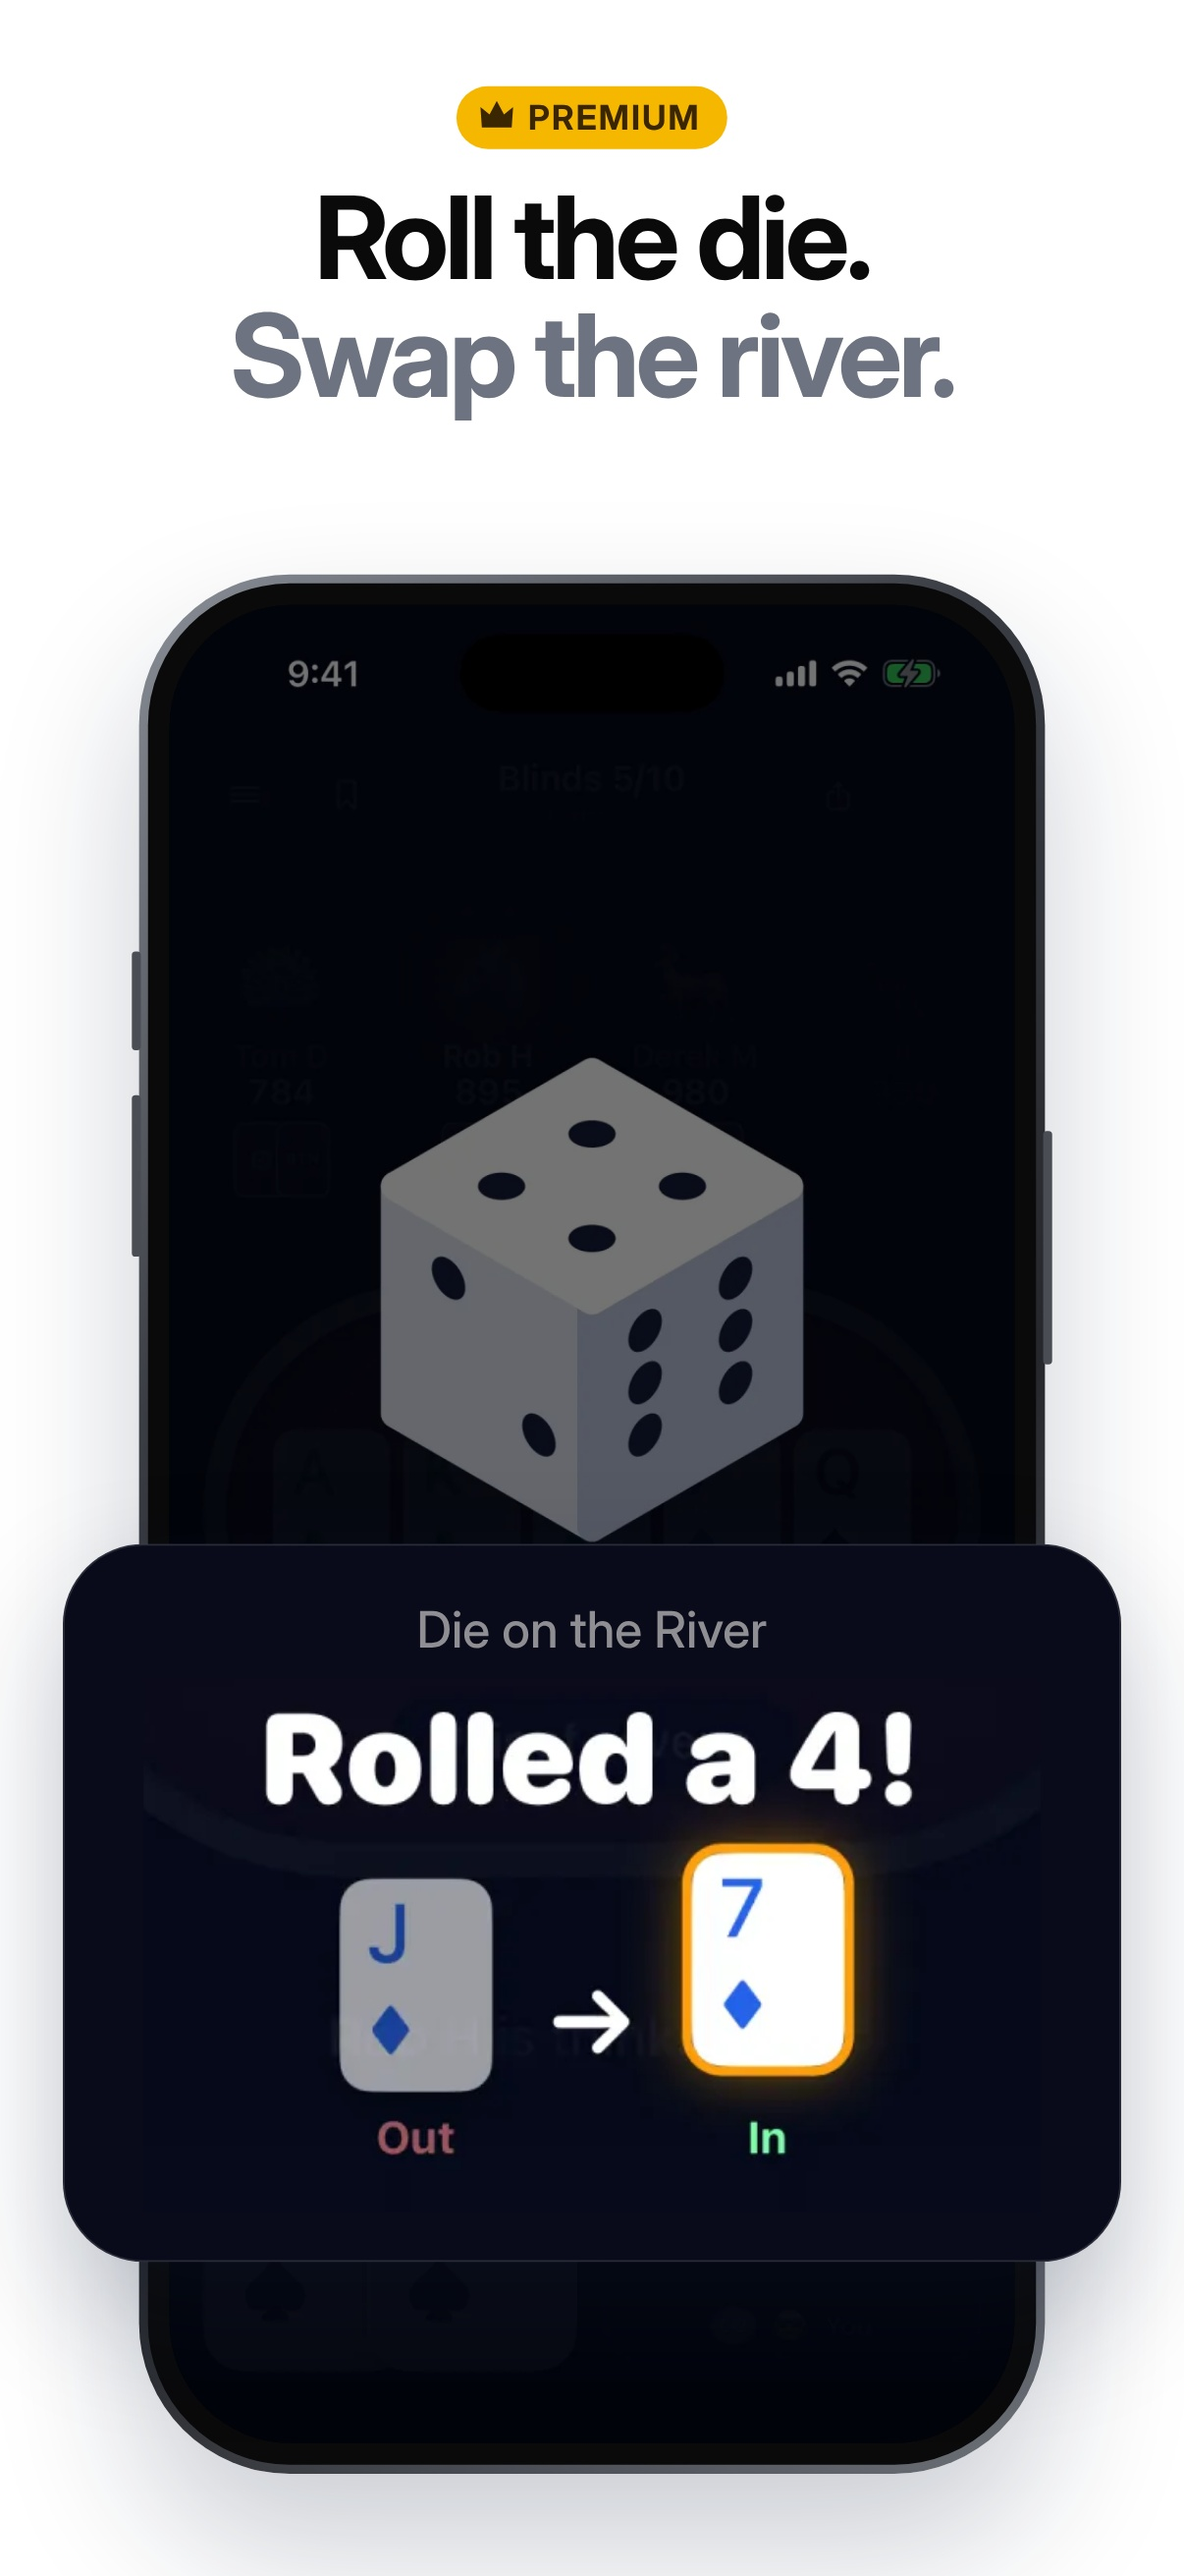
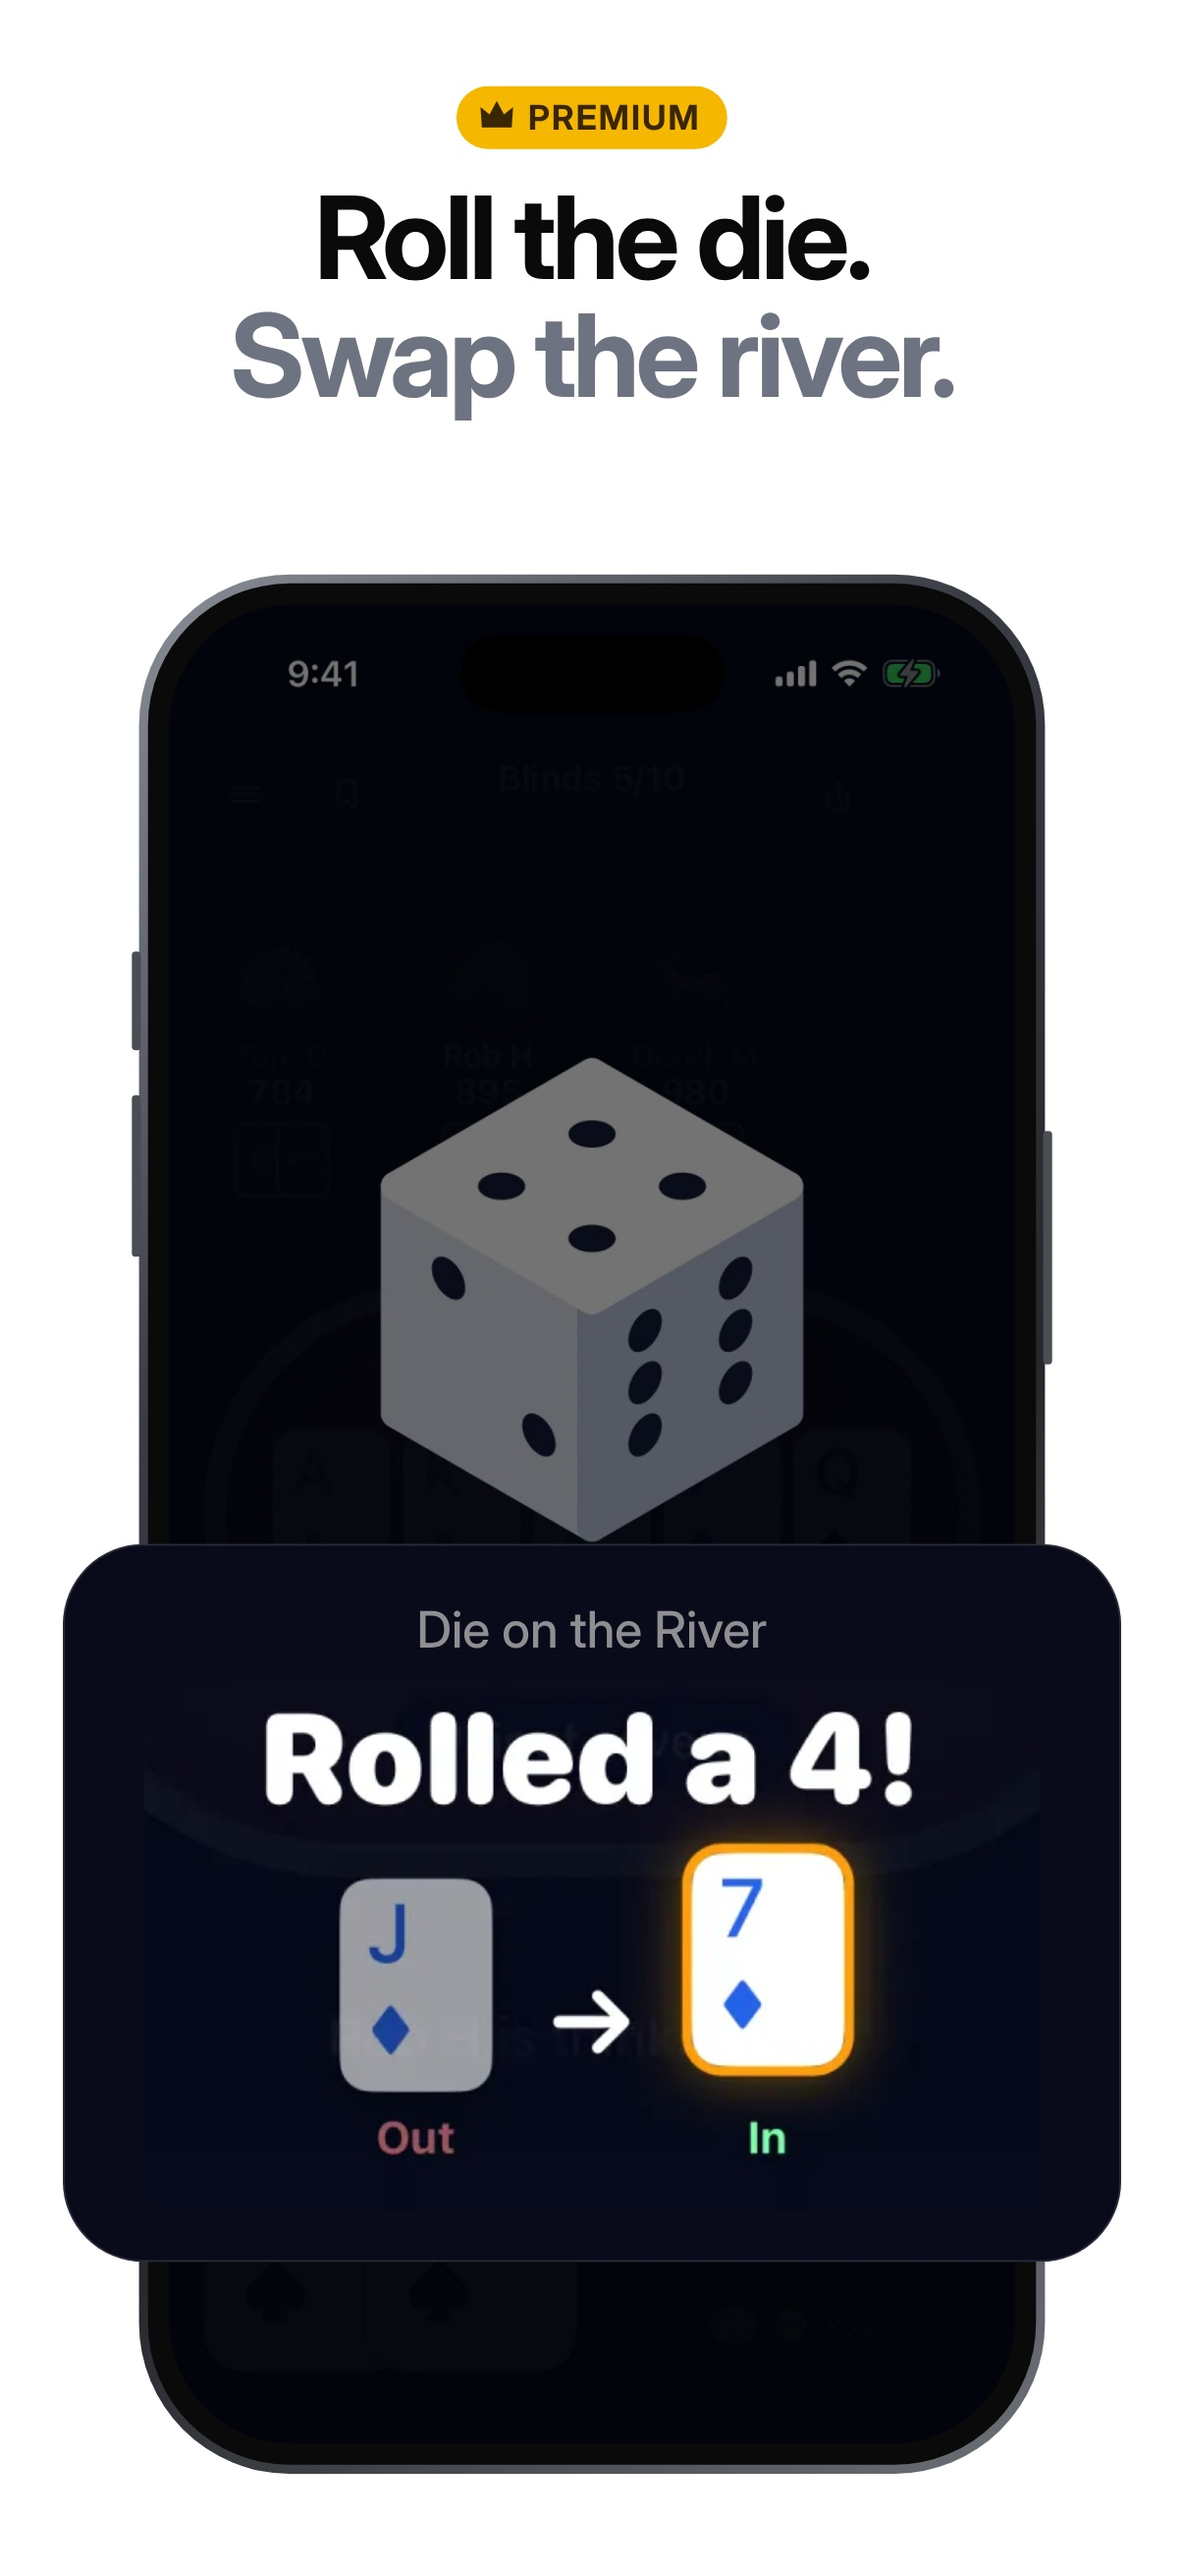
App Store screenshots: no shadows
Removed every drop shadow from the slide template (the phone, the pulled-out panels, the
chat bubbles, the game tiles and the code card) and re-rendered all 18 slides.

Claude-Session: https://claude.ai/code/session_01Tm6LJGY65MBLfrcgNtCq1V

diff --git a/store/scripts/slides.html b/store/scripts/slides.html
@@ -9,22 +9,22 @@ h1{position:absolute;left:90px;right:90px;text-align:center;font-weight:700;lett
 h1 span{color:var(--mute)}
 /* The screen (the phone less 34px a side) is exactly an iPhone screenshot's shape, 402 x 874, so a shot fills it to the bottom edge. */
 .phone{position:absolute;width:1010px;height:2116px;border-radius:168px;padding:22px;
- background:linear-gradient(135deg,#8b8f97,#3a3d44 30%,#25272c 60%,#6d7178);box-shadow:0 80px 160px var(--shadow)}
+ background:linear-gradient(135deg,#8b8f97,#3a3d44 30%,#25272c 60%,#6d7178)}
 .phone:before{content:'';position:absolute;inset:10px;border-radius:158px;background:#0a0a0b}
 .screen{position:absolute;inset:34px;border-radius:136px;overflow:hidden;background:#000}
 .screen img{width:100%;height:100%;object-fit:cover;object-position:top;display:block}
 .island{position:absolute;top:34px;left:50%;transform:translateX(-50%);width:290px;height:86px;border-radius:43px;background:#000;z-index:2}
 .dim:after{content:'';position:absolute;inset:0;background:rgba(0,0,0,.55)}
 .btn{position:absolute;width:10px;border-radius:4px;background:#4a4d54}
-.panel{position:absolute;background:#000;border:2px solid rgba(255,255,255,.14);border-radius:90px;box-shadow:0 60px 140px var(--shadow);overflow:hidden;text-align:center;color:#fff}
+.panel{position:absolute;background:#000;border:2px solid rgba(255,255,255,.14);border-radius:90px;overflow:hidden;text-align:center;color:#fff}
 .panel .lbl{font-size:56px;font-weight:500;color:#8e8e93}
-.bub{position:absolute;display:flex;align-items:center;gap:26px;padding:22px 52px 22px 22px;border-radius:999px;background:#fff;box-shadow:0 30px 70px var(--shadow);font-weight:600;font-size:58px;color:#111;letter-spacing:-.02em}
-body.light .bub{background:#f2f2f7;box-shadow:0 30px 70px rgba(20,30,60,.18)}
+.bub{position:absolute;display:flex;align-items:center;gap:26px;padding:22px 52px 22px 22px;border-radius:999px;background:#fff;font-weight:600;font-size:58px;color:#111;letter-spacing:-.02em}
+body.light .bub{background:#f2f2f7}
 .bub .face{width:108px;height:108px;border-radius:50%;background:#e9edf6;display:grid;place-items:center}.bub .face img{width:84px;height:84px;object-fit:contain}
 body.light .bub .face{background:#fff}
 .bub small{display:block;font-size:36px;font-weight:500;color:#7a7f8a;letter-spacing:0;margin-bottom:4px}
 .tile{position:absolute;width:330px;text-align:center}
-.tile .sq{width:330px;height:330px;border-radius:84px;display:grid;place-items:center;box-shadow:0 30px 60px var(--shadow)}
+.tile .sq{width:330px;height:330px;border-radius:84px;display:grid;place-items:center}
 .tile .sq svg{width:300px;height:300px}
 .tile .nm{margin-top:22px;font-size:40px;font-weight:600;color:var(--tileink);letter-spacing:-.01em;white-space:nowrap}
 .ptag{position:absolute;left:50%;top:96px;transform:translateX(-50%);display:flex;align-items:center;gap:14px;padding:12px 30px 12px 24px;border-radius:999px;background:#f5b700;color:#3a2600;font-size:38px;font-weight:700;letter-spacing:.06em;text-transform:uppercase;white-space:nowrap}

diff --git a/store/README.md b/store/README.md
@@ -24,6 +24,8 @@ allowed, so one slot is free, kept for the update that brings back the parked ga
 A slide that shows a Premium game wears a small gold "Premium" tag with a crown above its headline (`premium()` in
 `slides.cjs`; the owner's call, 17 Nov 2026), so nobody downloads expecting every game free.
 
+No drop shadows anywhere (the owner, 17 Nov 2026): not under the phone, the pulled-out panels, the chat bubbles, the game tiles or the code card.
+
 Only the first three show in search results. The type is Inter Display (not SF Pro, whose licence covers UI mock-ups,
 not marketing headlines). Emoji are only ever cut from real iPhone screenshots, never drawn.
 
